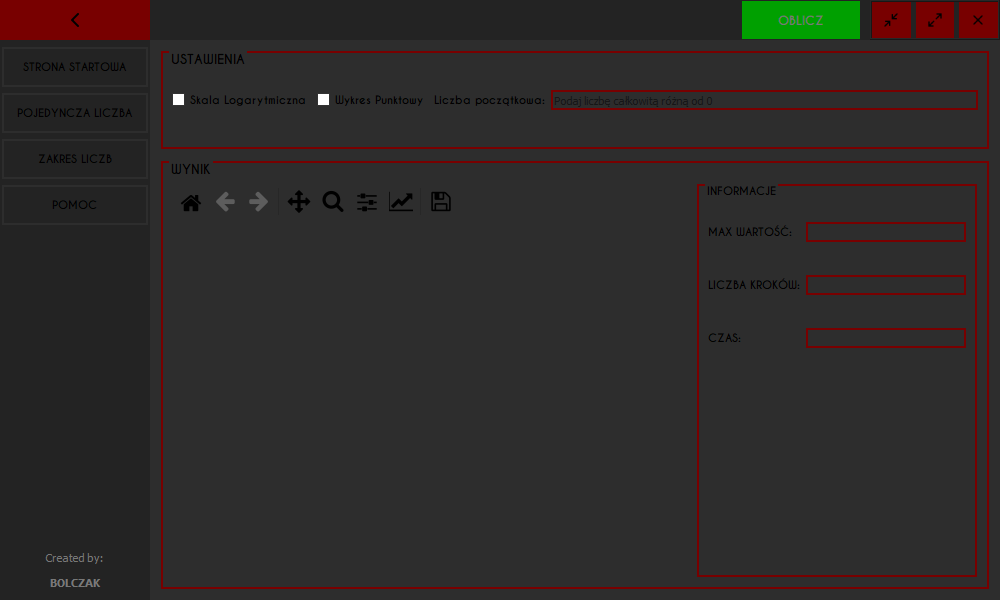
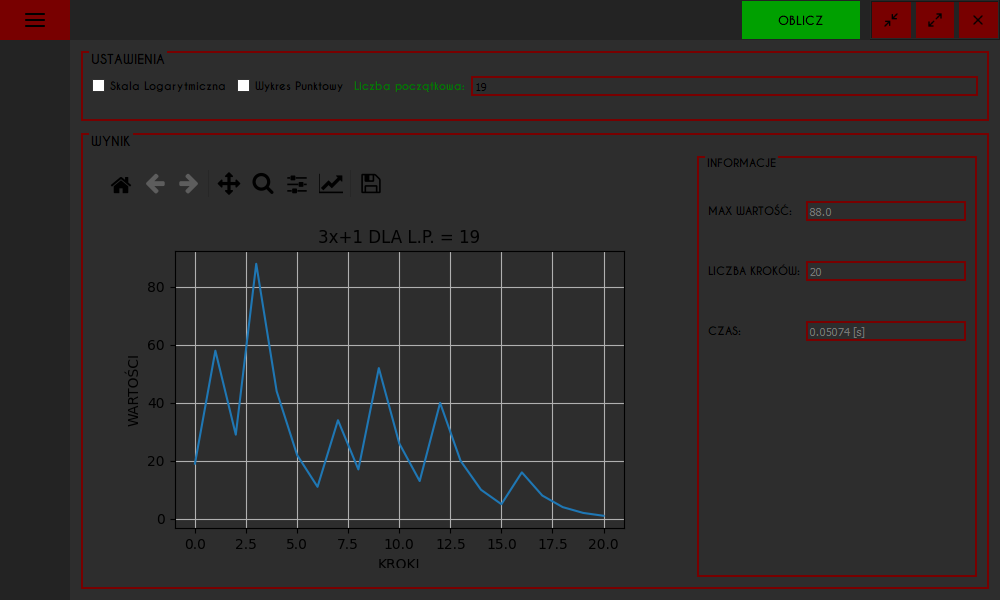
README app description

diff --git a/README.md b/README.md
@@ -27,6 +27,51 @@ The steps will be:
 
 Eventually we always end up with 4->2->1 loop. Mathematicians are searching for number that will not fall into that loop
 
-As for now on the bruteforced $2^{68}$ numbers (that's a lot)
+As for now they bruteforced $2^{68}$ numbers (that's a lot)
+
+-------------------
+
+# Application
+
+My application just calculates those steps and plots them onto graph.
+
+Home page looks like this:
+
+<img src="img\home.png">
+
+It contains few options<br>On the left you can see openable menu that contains (from top to bottom):
+1. Home page
+2. Single value[^single]
+3. Range of values[^range]
+4. Help (not implemented yet)
+
+In the right upper corner there are also some default control buttons
+
+[^single]:
+## Single value page
+This page looks like so:
+
+<img src="img\single.png">
+
+In the top section we define our selected starting value, and if we want to we can check that plot should be a scatter plot or plotted in a logarithmic scale.<br>
+
+### To start calculation we need to press the big <span stylesheet="color: #00FF00">green</span> button near control buttons
+
+After calculation is done in the bottom section we have our plot that is interactive, and on the right side we have some statistics like max value reached, amount of steps and time it took to calculate
+
+
+[^range]:
+## Range of numbers page
+This page looks like so:
+
+<img src="img\range.png">
+
+Similarly, in the top section we define our selected starting value, but we also define end of range, and if we also want to, we can check that plot should be a scatter plot or plotted in a logarithmic scale. Moreovver there are two more options that controls time the program waits between calculations and if we want to clear graph after specified amount of plots we also can check it here. We can also define stop condition here, that will halt the execution of a program until we press the small green button next to stop condition. I implemented here two stop conditions: by value exceeded and by steps exceeded - they can work simultaneously.<br>
+
+### To start calculation we need to press the big <span stylesheet="color: #00FF00">green</span> button near control buttons
+
+The calculation will start and the progress bar will appear showing the overall progress of calculations. Plots will be plotted onto the graph and cleared if we specified to
+
+After calculation is done in the bottom section we have our last plot that is interactive, and on the right side we have some statistics like max value reached, amount of steps and time it took to calculate the last plot and time it took to test whole range that we specified
 
 [^wiki]: See on Wiki: https://en.wikipedia.org/wiki/Collatz_conjecture | Zobacz na Wikipedii https://pl.wikipedia.org/wiki/Problem_Collatza
